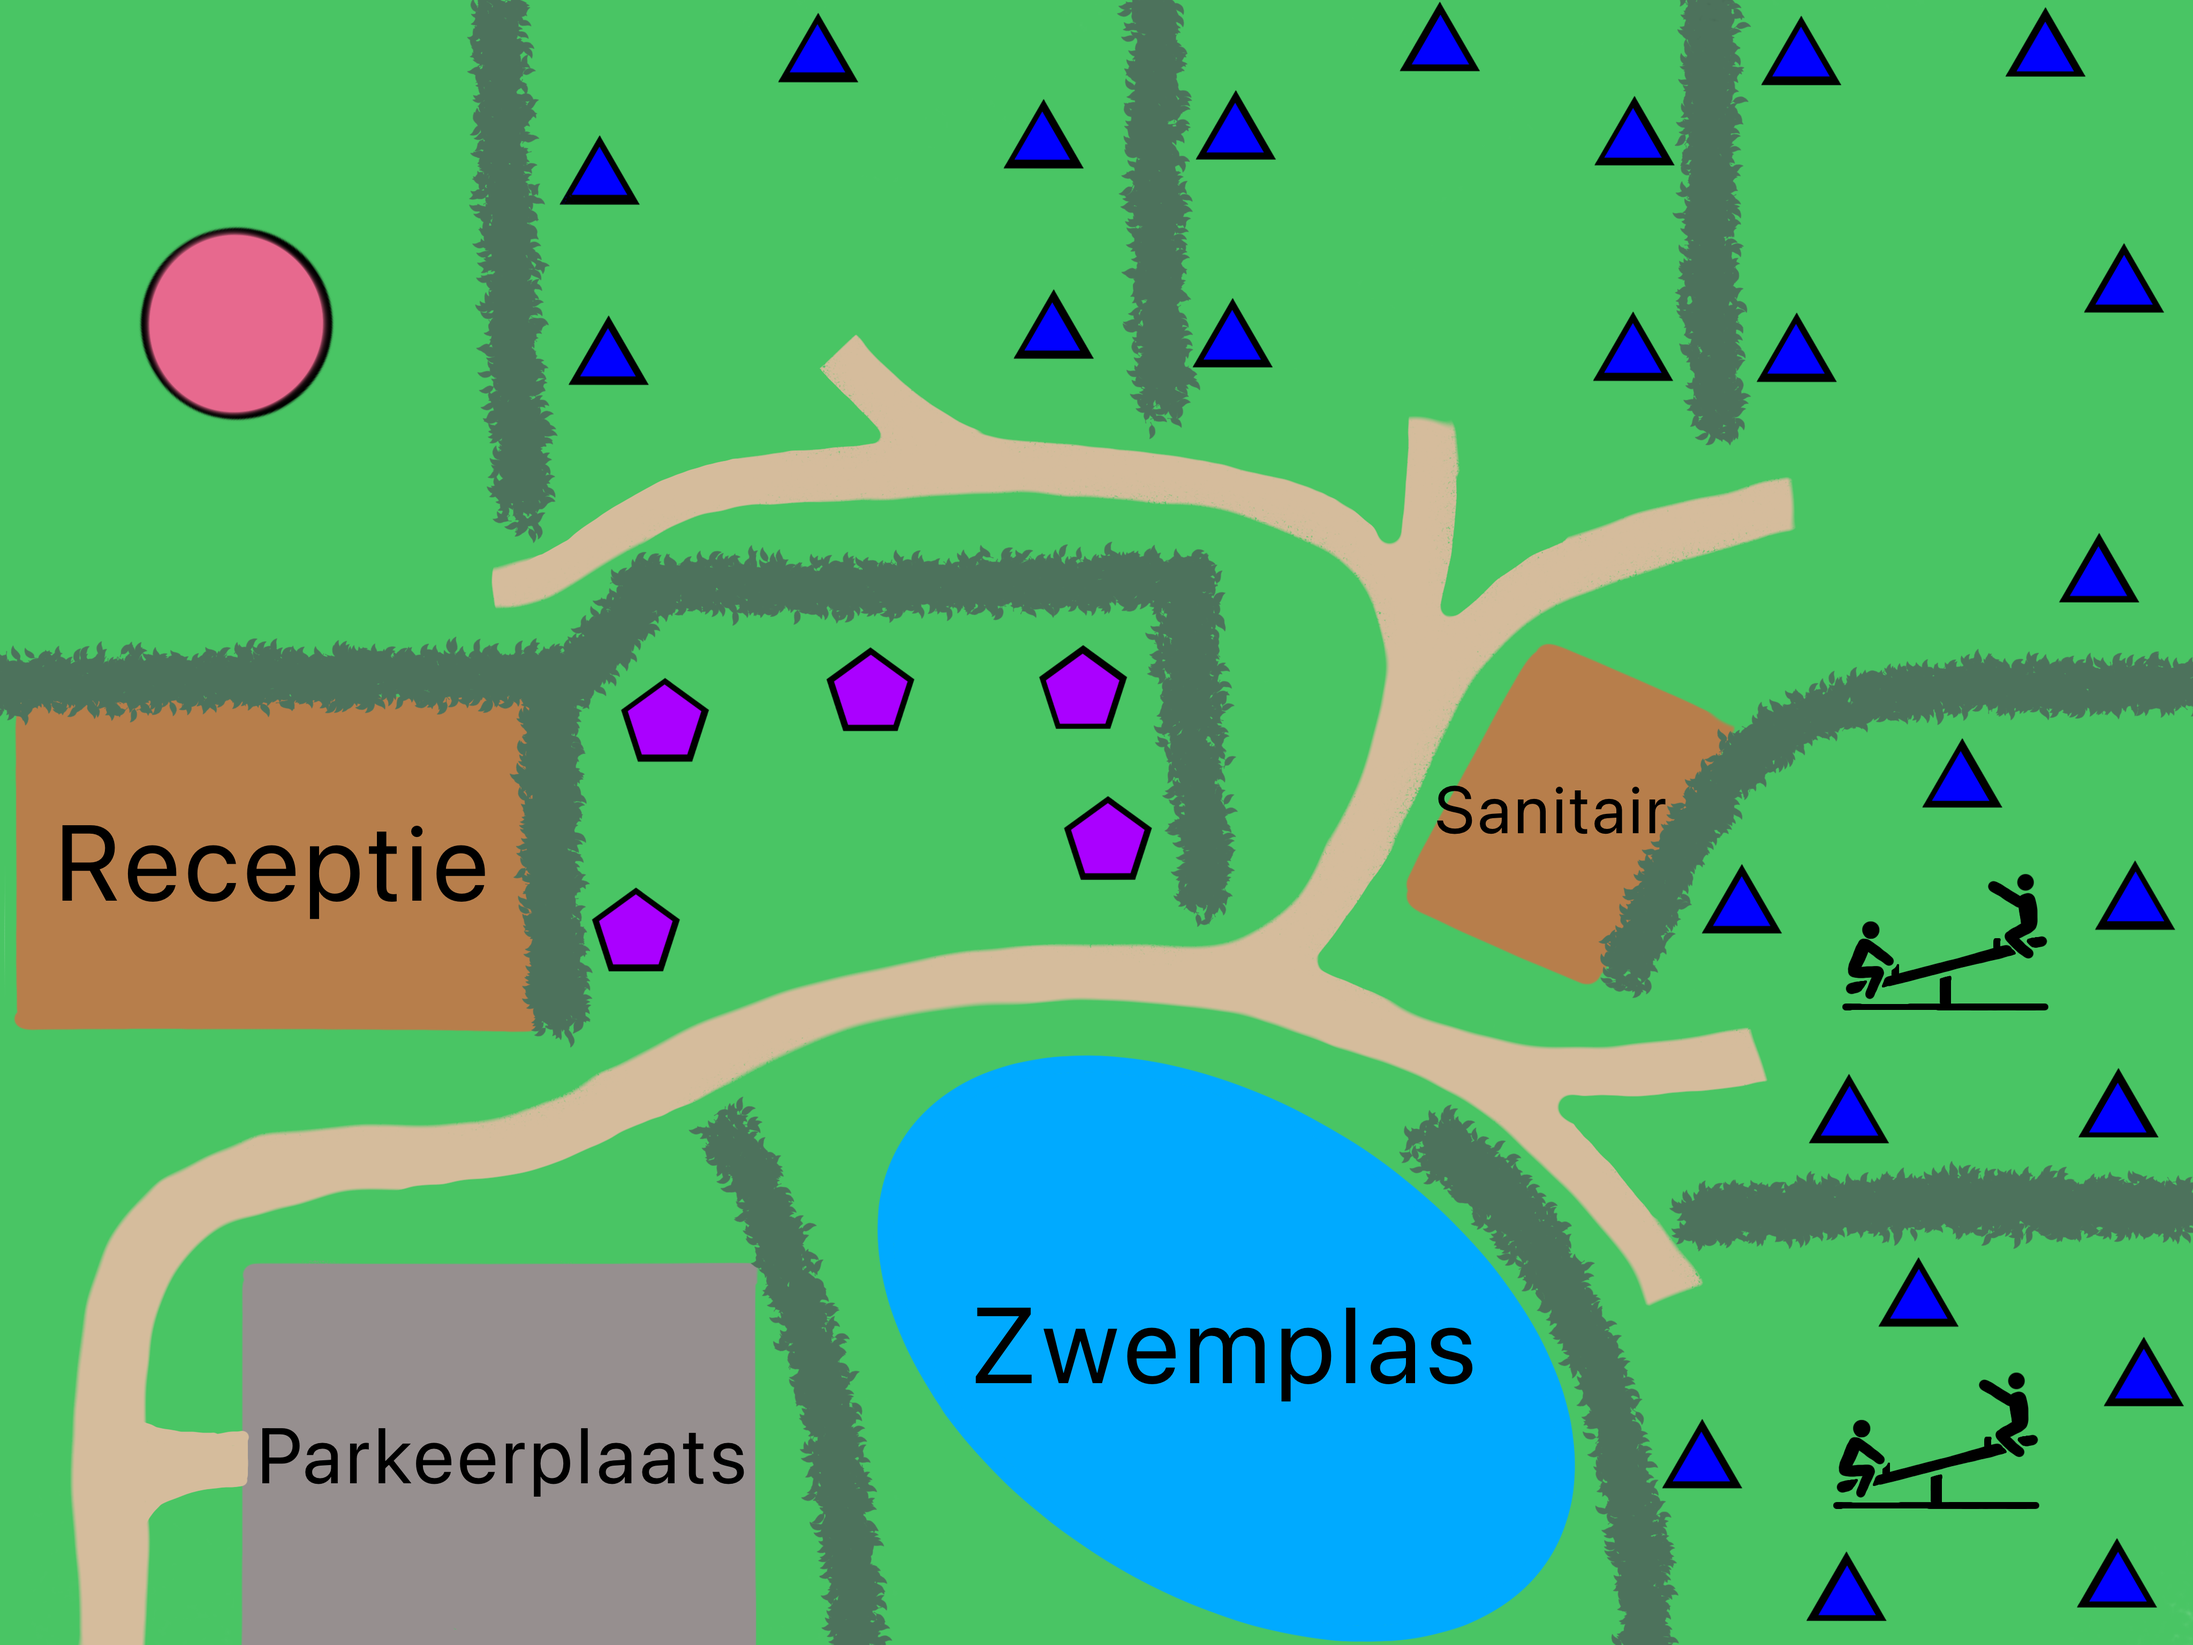
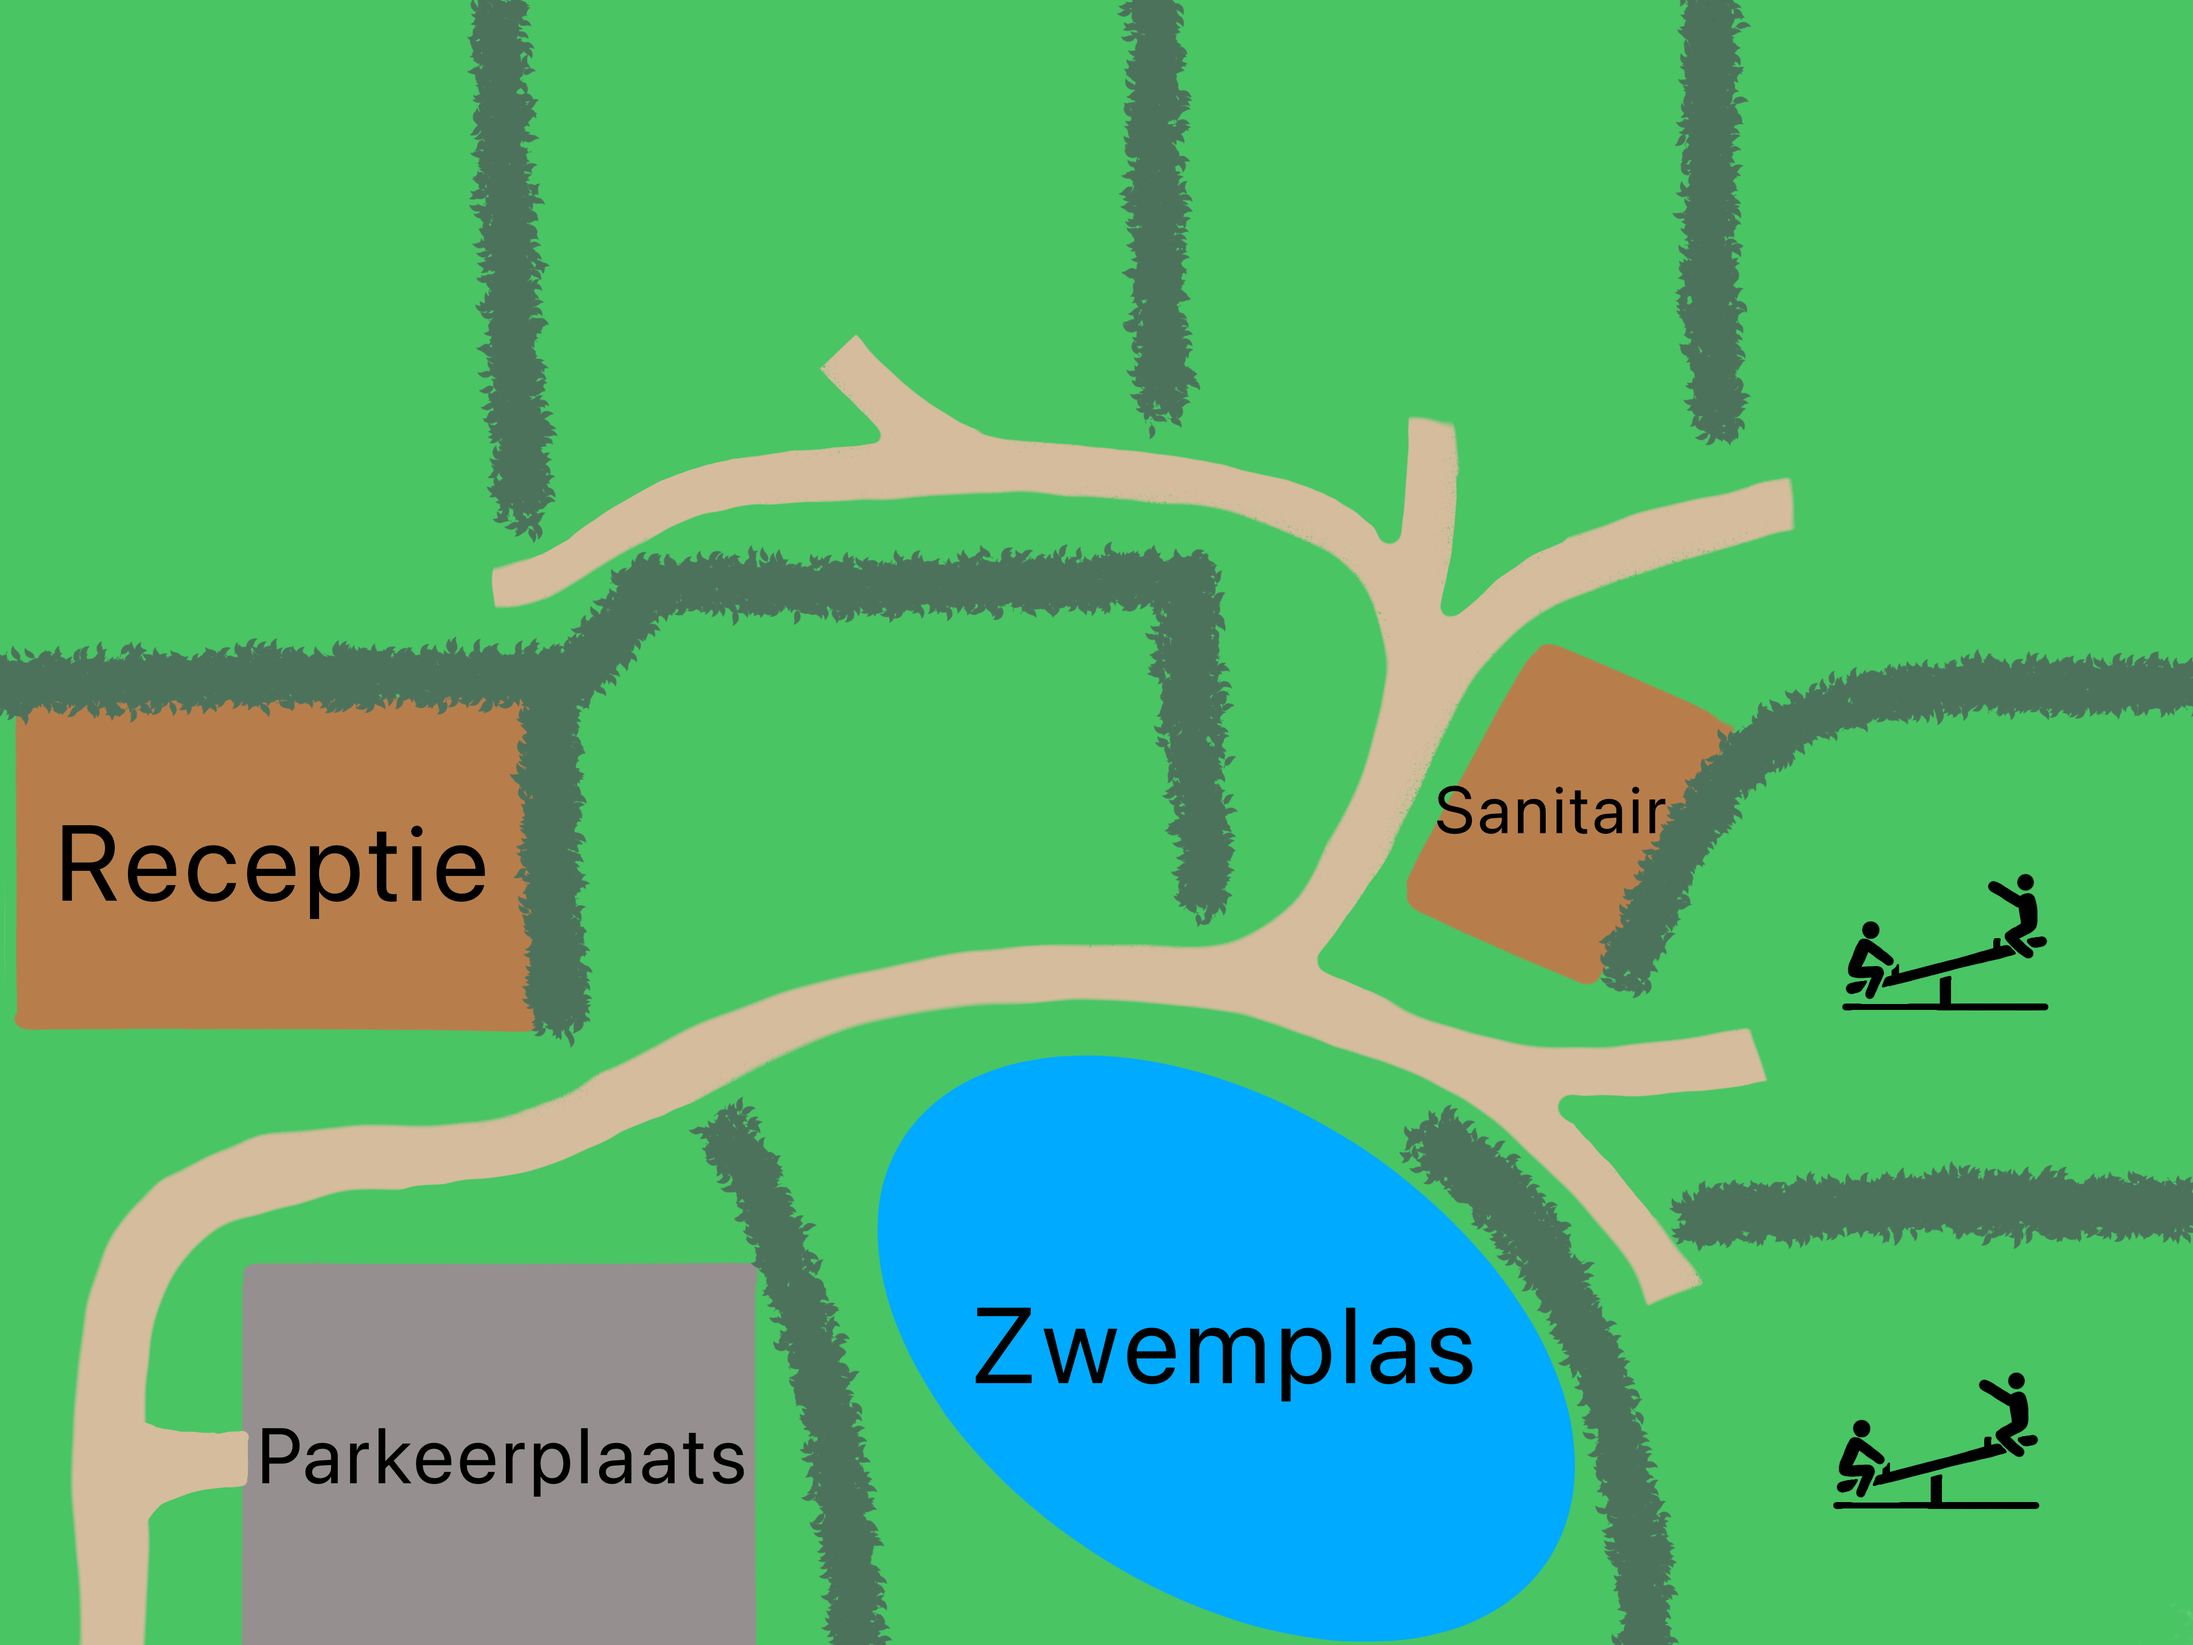
functionele icoontjes

diff --git a/resources/views/campsites/map/index.blade.php b/resources/views/campsites/map/index.blade.php
@@ -4,7 +4,6 @@
     @php
     $dbCampsites = \App\Models\Campsite::all()
         ->keyBy(fn($c) => $c->name . '|' . $c->type->value);
-
     $campsites = collect(json_decode(file_get_contents(database_path('src\campsites.json')), true))
         ->filter(fn($c) => isset($c['lat'], $c['lng']))
         ->map(fn($c) => array_merge($c, [
@@ -21,34 +20,48 @@
         <script>
         document.addEventListener('DOMContentLoaded', () => {
             const IMAGE_URL   = @json(asset('img/camping_map.png'));
-            const MAP_OPTIONS = { crs: L.CRS.Simple, minZoom: -2.6, maxZoom: -0.5, zoomControl: true };
-            const ICON        = L.icon({ iconUrl: 'img/marker_placeholder.png', iconSize: [38, 38], iconAnchor: [19, 19] });
+            const MAP_OPTIONS = { crs: L.CRS.Simple, minZoom: -2.6, maxZoom: -0.5, zoomControl: false };
+            const map = L.map('map', MAP_OPTIONS);
+            L.control.zoom({ position: 'topright' }).addTo(map);
+            
             const campsites   = @json($campsites);
 
-            const map = L.map('map', MAP_OPTIONS);
+            const ICONS = {
+                'Varkensveld': L.icon({ iconUrl: 'img/icon_varken.png', iconSize: [50, 50], iconAnchor: [19, 19] }),
+                'Paardenveld': L.icon({ iconUrl: 'img/icon_paard.png', iconSize: [42, 42], iconAnchor: [19, 19] }),
+            };
+            const DEFAULT_ICON = L.icon({ iconUrl: 'img/icon_default.png', iconSize: [42, 42], iconAnchor: [19, 19] });
 
             const groups = {};
+
             campsites.forEach(site => {
                 const type = site.type ?? 'Overig';
                 if (!groups[type]) groups[type] = L.layerGroup().addTo(map);
 
-                const marker = L.marker([site.lat, site.lng], { icon: ICON });
+                const icon   = ICONS[type] ?? DEFAULT_ICON;
+                const marker = L.marker([site.lat, site.lng], { icon });
+
                 marker.on('click', () => {
-                if (typeof openModal !== 'function') return;
-                const el = document.createElement('div');
-                el.dataset.campsiteId   = site.id             ?? '';
-                el.dataset.name         = site.name           ?? '';
-                el.dataset.campsiteType = site.type           ?? '';
-                el.dataset.people       = site.max_people     ?? '';
-                el.dataset.vehicles     = site.max_vehicles   ?? '';
-                el.dataset.electricity  = site.has_electricity ? 'true' : 'false';
-                el.dataset.notes        = site.notes          ?? '';
-                openModal(el);
-            });
+                    if (typeof openModal !== 'function') return;
+                    const el = document.createElement('div');
+                    el.dataset.campsiteId   = site.id              ?? '';
+                    el.dataset.name         = site.name            ?? '';
+                    el.dataset.campsiteType = site.type            ?? '';
+                    el.dataset.people       = site.max_people      ?? '';
+                    el.dataset.vehicles     = site.max_vehicles    ?? '';
+                    el.dataset.electricity  = site.has_electricity ? 'true' : 'false';
+                    el.dataset.notes        = site.notes           ?? '';
+                    openModal(el);
+                });
                 marker.addTo(groups[type]);
             });
 
-            L.control.layers(null, groups, { collapsed: false }).addTo(map);
+            const layerControl = L.control.layers(null, groups, { collapsed: false, position: 'topleft' }).addTo(map);
+            layerControl.getContainer().style.cssText = `
+                margin-top: 2%;
+                margin-left: 2%;
+                min-width: 115px;
+            `;
 
             const img = new Image();
             img.onload = () => {
